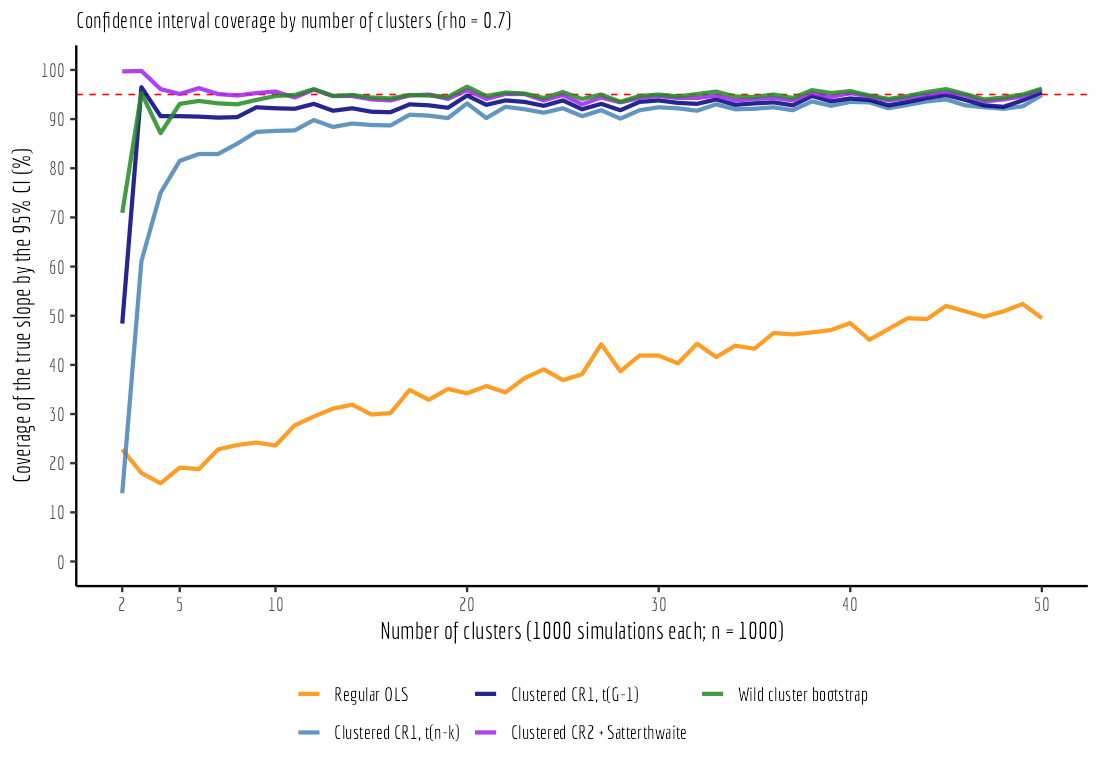
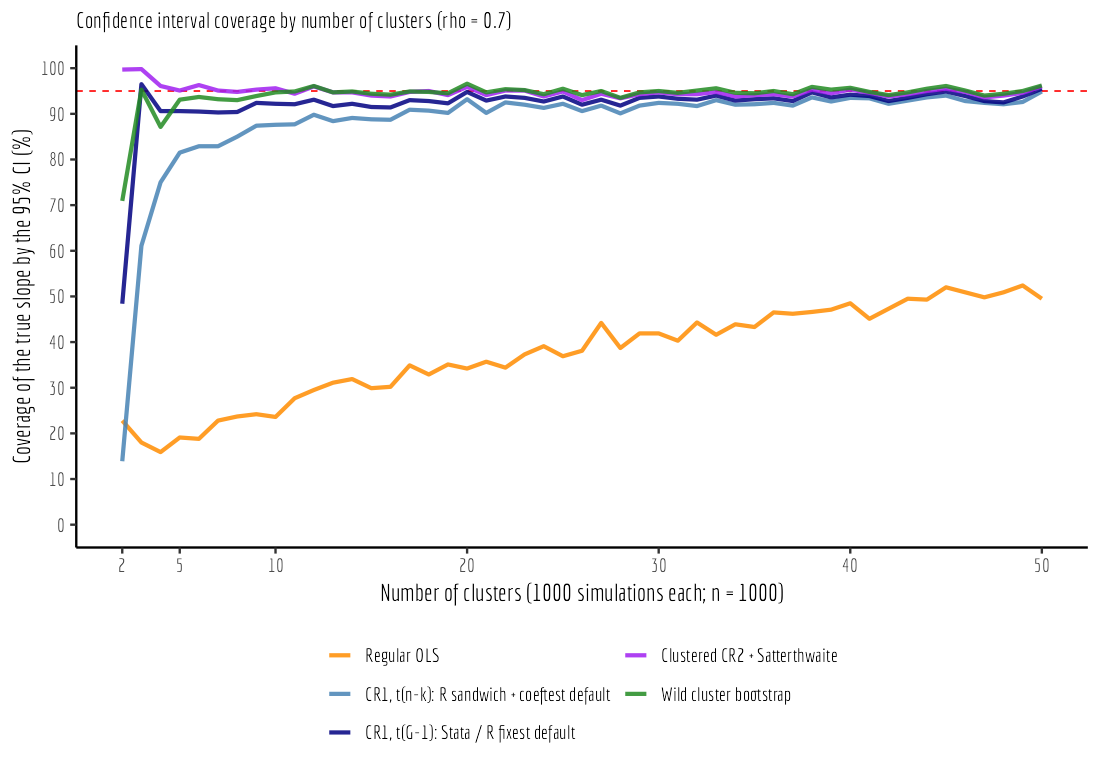
Label CR1 variants by software default in few-clusters post

diff --git a/_posts/2026-09-07-few-clusters.md b/_posts/2026-09-07-few-clusters.md
@@ -48,7 +48,7 @@ gen_cluster <- function(n = 1000, G = 50, rho = 0.7, beta = c(0.1, 0.5)) {
 For every simulated dataset I fit `lm(y ~ x)` once and then construct standard errors using each approach:
 
 1.  **Regular OLS.** The textbook standard error, which assumes independent errors.
-2.  **CR1, $t(n-k)$.** Vanilla cluster SEs: the cluster-robust sandwich with Stata’s $\frac{G}{G-1}\frac{n-1}{n-k}$ finite-sample factor, paired with the same critical value OLS would use.
+2.  **CR1, $t(n-k)$.** Vanilla cluster SEs: the cluster-robust sandwich with Stata’s $\frac{G}{G-1}\frac{n-1}{n-k}$ finite-sample factor, paired with the same critical value OLS would use. This is what R’s `sandwich::vcovCL()` followed by `lmtest::coeftest()` gives you by default.
 3.  **CR1, $t(G-1)$.** Identical variance estimate, but with critical values from a $t$ distribution with $G-1$ degrees of freedom. This is the default in Stata’s `vce(cluster)` and in R’s `fixest`.
 4.  **CR2 + Satterthwaite.** The bias-reduced CR2 sandwich of Bell and McCaffrey (2002), with Satterthwaite degrees of freedom, via `clubSandwich`.
 5.  **Wild cluster bootstrap.** 999 bootstrap draws imposing the null, via `fwildclusterboot`. I use Rademacher weights, switching to Webb’s six-point weights when $G \le 12$, as Roodman et al. (2019) recommend. The confidence interval is obtained by test inversion.
@@ -107,7 +107,7 @@ run_sims <- function(G_grid, n_sims = 1000, n = 1000, rho = 0.7, B = 999,
 sims <- run_sims(G_grid = 2:50) %>%
   mutate(covered = lo <= 0.5 & hi >= 0.5,
          method = factor(method, levels = c("regular", "cr1_t_n", "cr1_t_g", "cr2_satt", "wild"),
-                         labels = c("Regular OLS", "Clustered CR1, t(n-k)", "Clustered CR1, t(G-1)",
+                         labels = c("Regular OLS", "CR1, t(n-k): R sandwich + coeftest default", "CR1, t(G-1): Stata / R fixest default",
                                     "Clustered CR2 + Satterthwaite", "Wild cluster bootstrap")))
 
 coverage <- sims %>%
@@ -139,7 +139,7 @@ Here is the full picture, for every $G$ from 2 to 50 and all five procedures.
 
 ![](/images/few-clusters_files/figure-gfm/coverage_plot-1.png)<!-- -->
 
-| G | Regular OLS | Clustered CR1, t(n-k) | Clustered CR1, t(G-1) | Clustered CR2 + Satterthwaite | Wild cluster bootstrap |
+| G | Regular OLS | CR1, t(n-k): R sandwich + coeftest default | CR1, t(G-1): Stata / R fixest default | Clustered CR2 + Satterthwaite | Wild cluster bootstrap |
 |---:|:---|:---|:---|:---|:---|
 | 2 | 22.8 | 13.9 | 48.4 | 99.7 | 70.9 |
 | 3 | 18.0 | 61.1 | 96.5 | 99.8 | 95.3 |
